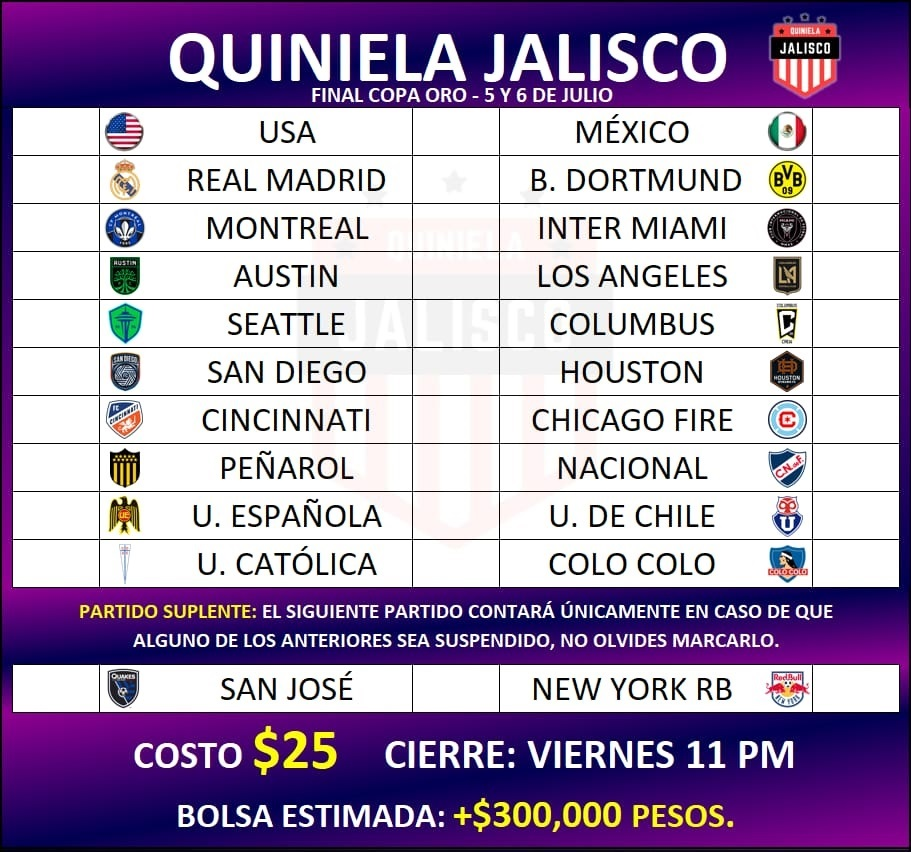
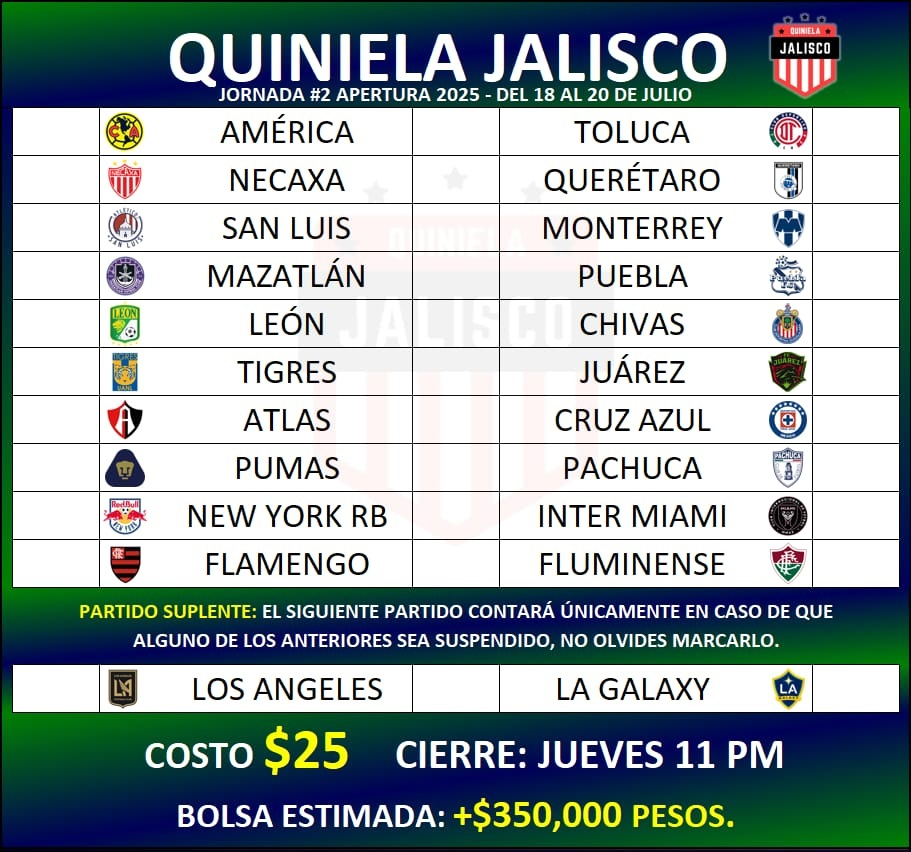
Jornada 2 A25

diff --git a/11/styles11.css b/11/styles11.css
@@ -95,8 +95,8 @@ body{
     margin-top: 8.5%;
     border-top: solid 1px black;
     border-radius: 0 0 14px 14px;
-    background: -webkit-linear-gradient(0.49turn, rgb(50,0,115) -7%, rgb(0 4 86) 80%);
-    background: linear-gradient(0.49turn, rgb(50,0,115) -7%, rgb(0 4 86) 80%);
+    background: -webkit-linear-gradient(0.49turn, rgb(1,50,50) -7%, rgb(0 4 86) 80%);
+    background: linear-gradient(0.49turn, rgb(1,50,50) -7%, rgb(0 4 86) 80%);
 }
 
 .text-lg{
@@ -293,7 +293,7 @@ h6{
 }
 
 #cantidad:before{
-    content:'+$300,000 pesos';
+    content:'+$350,000 pesos';
     color: yellow;
     white-space:pre;
 }
